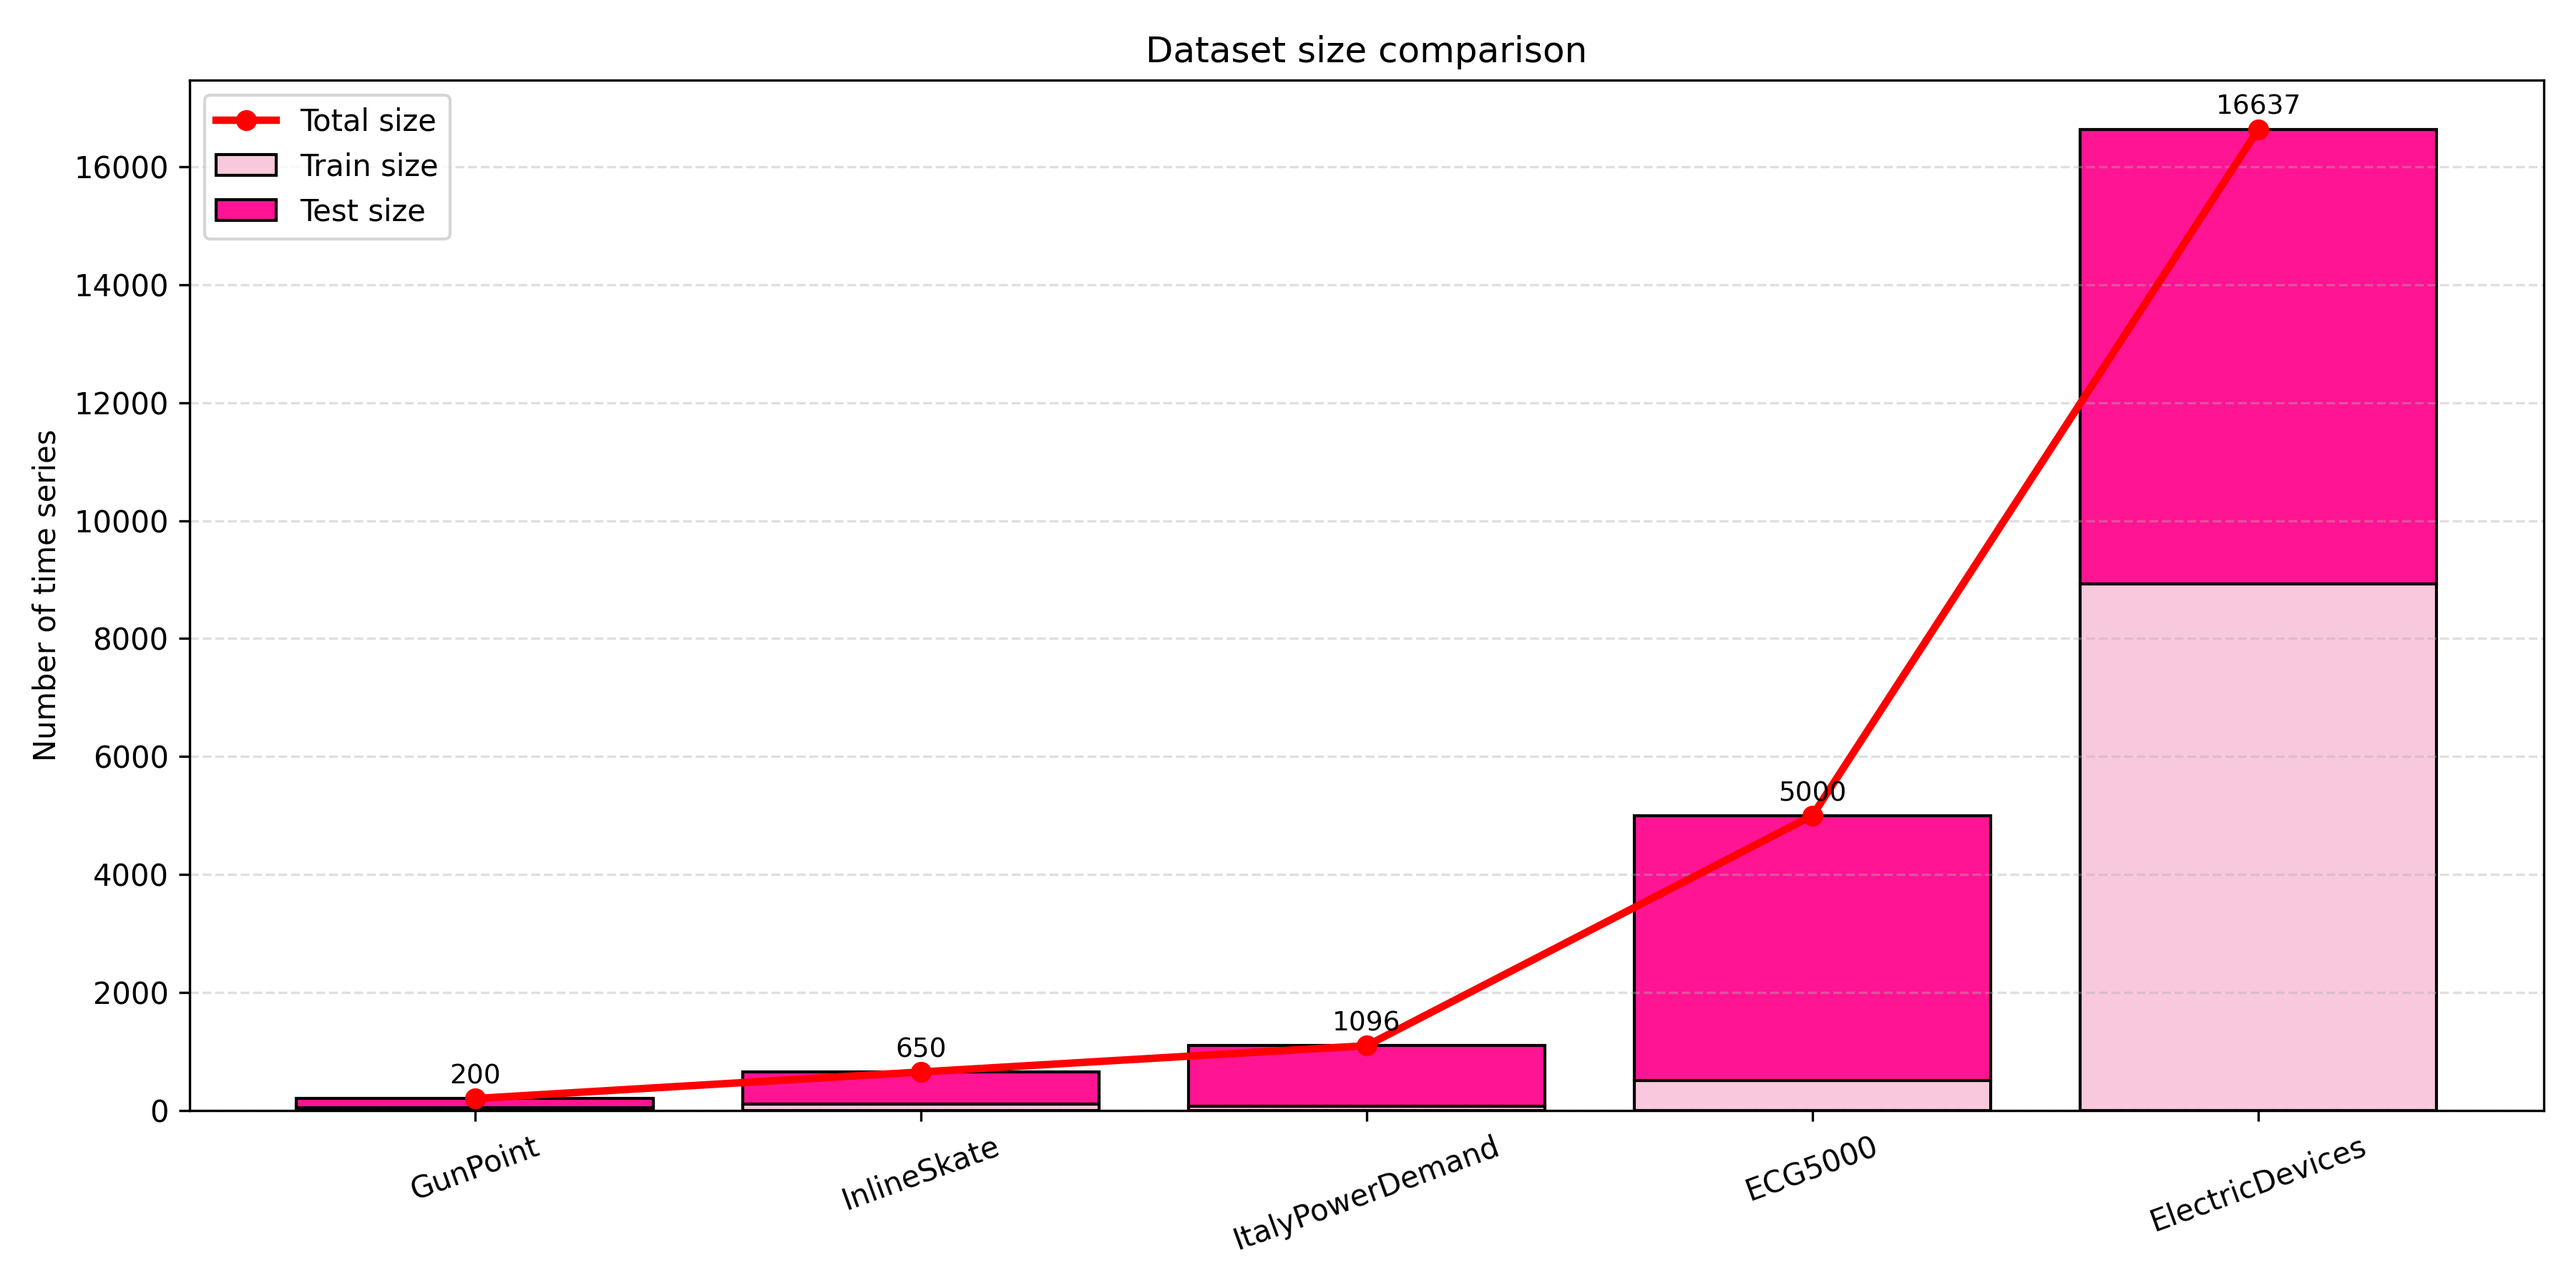
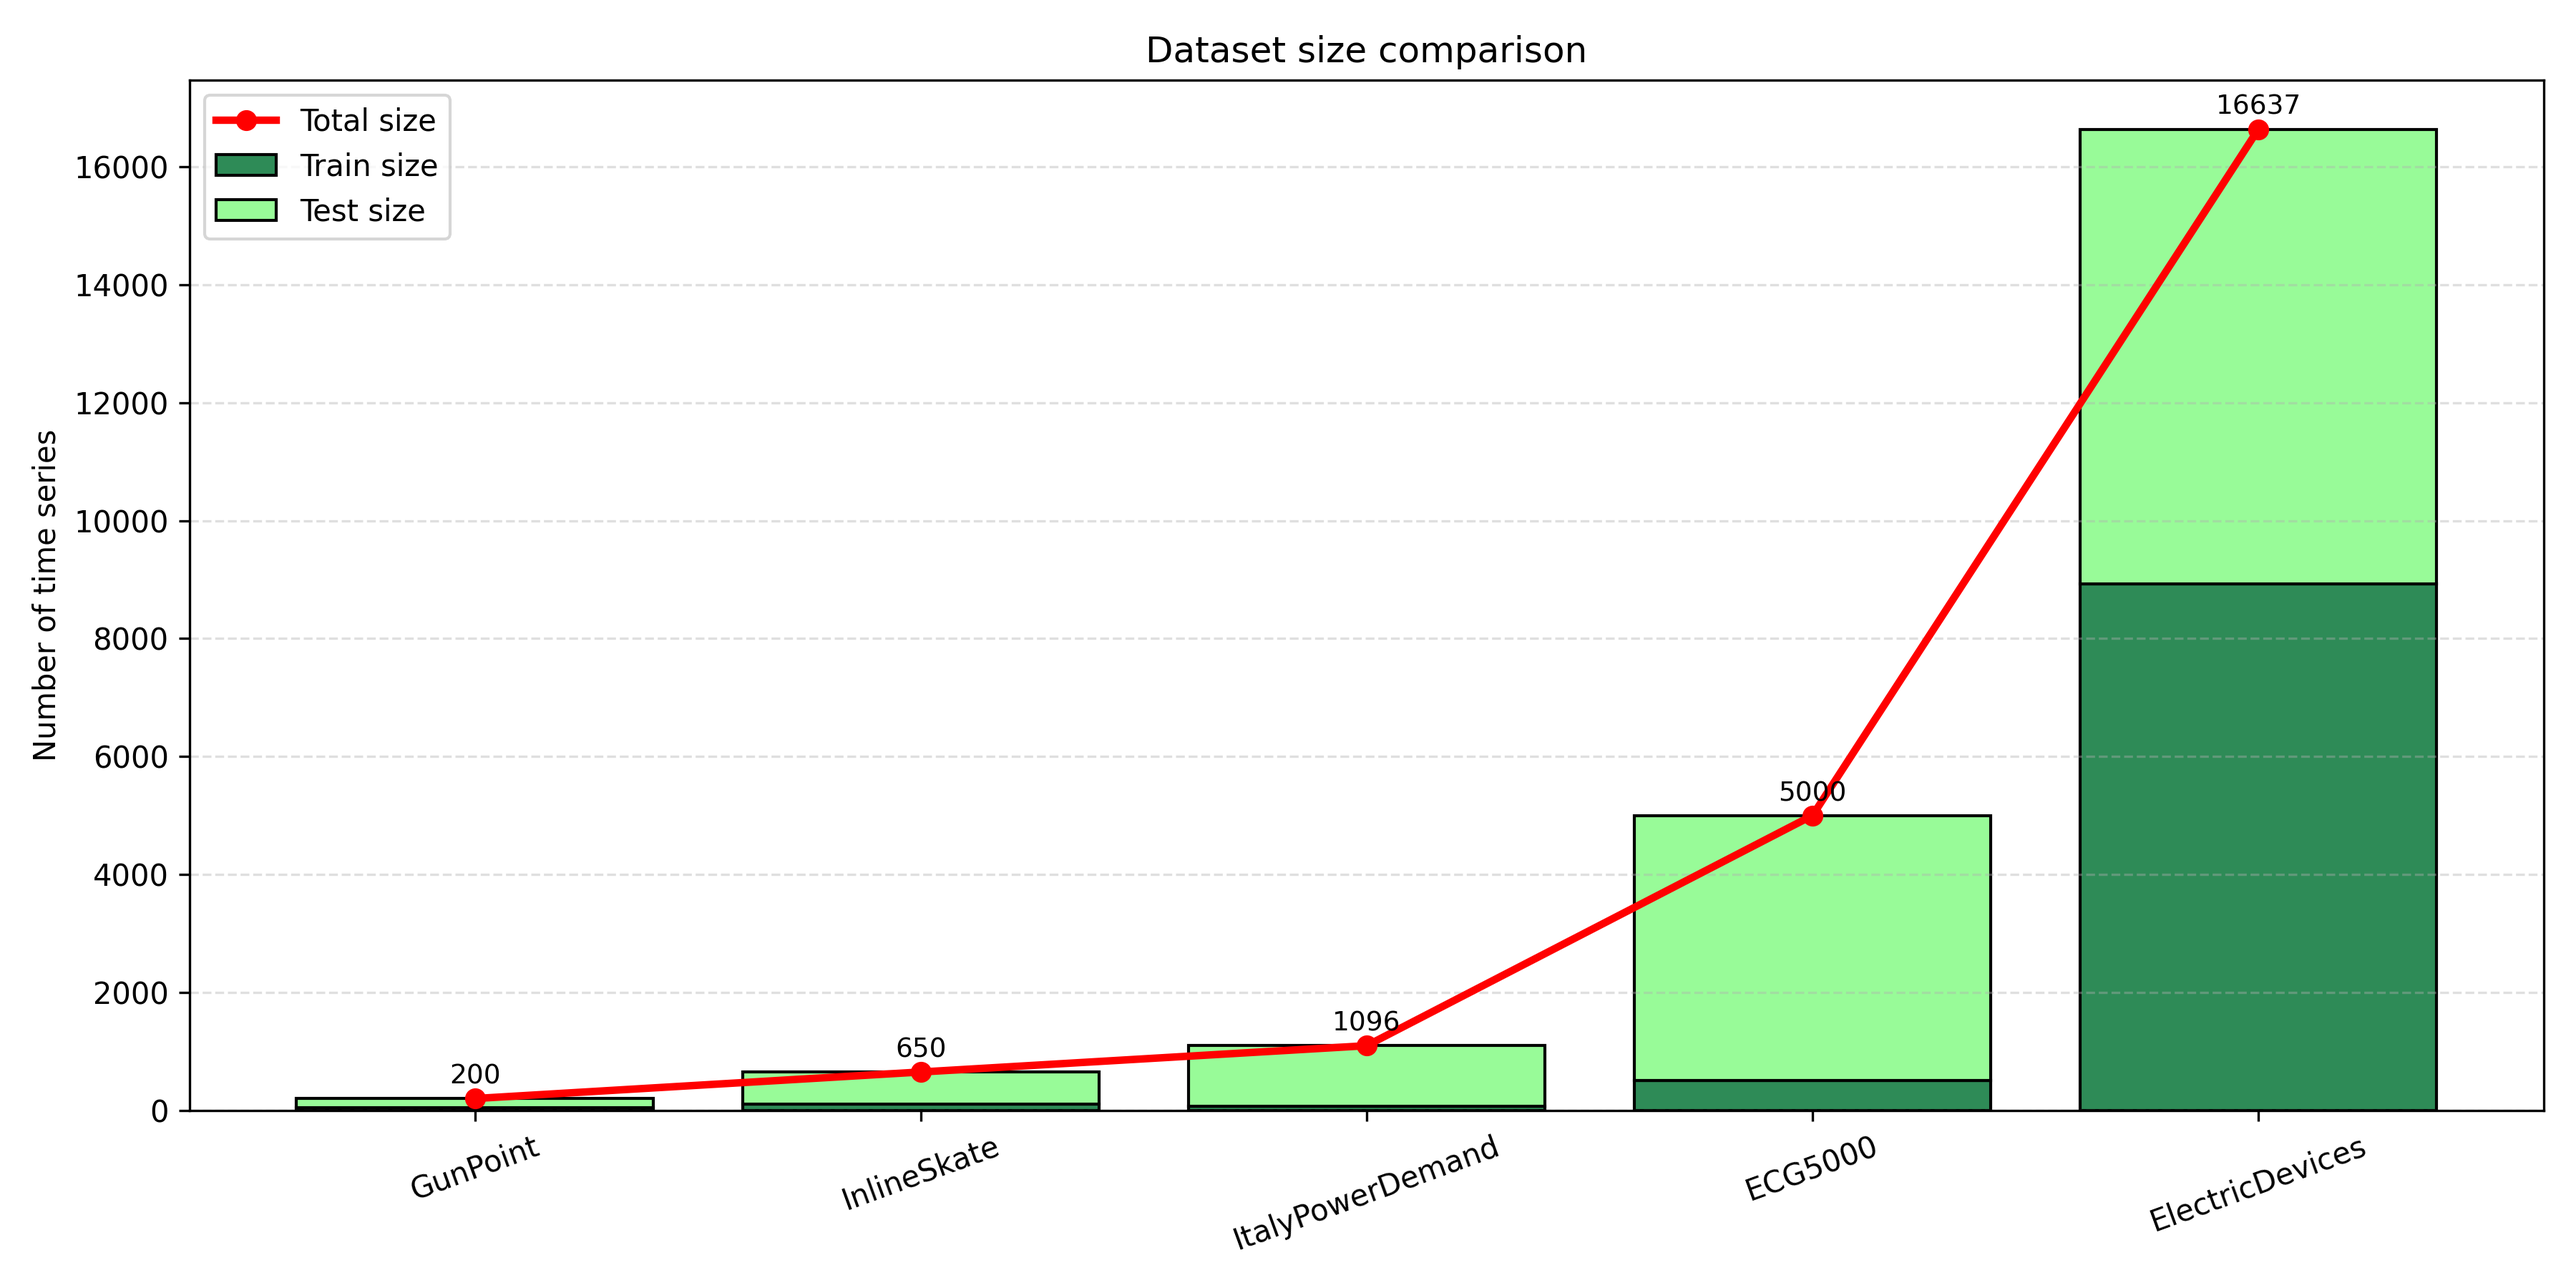
Add files via upload

diff --git a/data/plot_dataset_summary.py b/data/plot_dataset_summary.py
@@ -24,16 +24,16 @@ def main():
 
     plt.figure(figsize=(12, 6))
 
-    # Stacked bars (mejoradas)
+    # Stacked bars (estilo verde como en la imagen)
     plt.bar(x, train_sizes,
             label="Train size",
-            color="#f8c8dc",   # rosa palo
+            color="#2e8b57",   # verde oscuro
             edgecolor="black")
 
     plt.bar(x, test_sizes,
             bottom=train_sizes,
             label="Test size",
-            color="#ff1493",   # fucsia
+            color="#98fb98",   # verde claro
             edgecolor="black")
 
     # Línea roja
